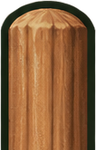
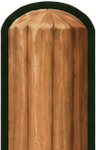
Fiks stolpar og dagsskifte i Duldord

diff --git a/duldord/css/tursti.css b/duldord/css/tursti.css
@@ -112,9 +112,9 @@
   top: 10%;
   bottom: -20px;
   width: var(--dd-post-width);
-  background: url('../assets/stolpe-topp.png') center top / 100% auto no-repeat,
-              url('../assets/stolpe-botn.png') center bottom / 100% auto no-repeat,
-              url('../assets/stolpe-midt.png') center / 100% auto repeat-y;
+  background: url('../assets/stolpe-topp.png?v=2') center top / 100% auto no-repeat,
+              url('../assets/stolpe-botn.png?v=2') center bottom / 100% auto no-repeat,
+              url('../assets/stolpe-midt.png?v=2') center 150px / 100% auto repeat-y;
 }
 .dd-header-post-left { left: calc(var(--dd-sign-height) * .218 - var(--dd-post-width) / 2); }
 .dd-header-post-right { right: calc(var(--dd-sign-height) * .218 - var(--dd-post-width) / 2); }
@@ -140,12 +140,13 @@
   position: absolute;
   z-index: 2;
   top: 78%;
-  left: calc(var(--dd-sign-height) * .218 - 42px);
+  left: calc(var(--dd-sign-height) * .218);
   width: 205px;
   height: 72px;
-  transform: rotate(7deg);
+  transform: translateX(-50%) rotate(7deg);
 }
 .dd-daydate,
+.dd-next-signpost,
 .dd-previous-signpost {
   display: flex;
   position: relative;
@@ -164,6 +165,7 @@
   white-space: nowrap;
 }
 .dd-daydate::before,
+.dd-next-signpost::before,
 .dd-previous-signpost::before {
   content: '';
   position: absolute;
@@ -171,20 +173,33 @@
   z-index: -1;
   background: url('../assets/informasjonspil.png?v=2') center / contain no-repeat;
 }
+.dd-next-signpost,
 .dd-previous-signpost {
   position: absolute;
   z-index: 3;
   top: calc(8px + var(--dd-sign-height) + 2px);
-  right: -8px;
   width: 175px;
-  padding: 0 0 0 17px;
   font-size: .78rem;
   cursor: pointer;
 }
+.dd-next-signpost {
+  left: calc((100% - min(100%, 490px)) / 2 + var(--dd-sign-height) * .218);
+  padding: 0 17px 0 0;
+  transform: translateX(-50%);
+}
+.dd-previous-signpost {
+  right: calc((100% - min(100%, 490px)) / 2 + var(--dd-sign-height) * .218);
+  padding: 0 0 0 17px;
+  transform: translateX(50%);
+}
 .dd-previous-signpost::before { transform: scaleX(-1); }
+.dd-next-signpost[hidden],
 .dd-previous-signpost[hidden] { display: none; }
+.dd-next-signpost:hover,
 .dd-previous-signpost:hover { filter: brightness(1.1); }
-.dd-previous-signpost:active { transform: scale(.97); }
+.dd-next-signpost:active { transform: translateX(-50%) scale(.97); }
+.dd-previous-signpost:active { transform: translateX(50%) scale(.97); }
+.dd-next-signpost:focus-visible,
 .dd-previous-signpost:focus-visible {
   outline: 3px solid var(--dd-gold);
   outline-offset: 3px;
@@ -250,9 +265,9 @@
   bottom: 2px;
   left: -44px;
   width: 13px;
-  background: url('../assets/stolpe-topp.png') center top / 100% auto no-repeat,
-              url('../assets/stolpe-botn.png') center bottom / 100% auto no-repeat,
-              url('../assets/stolpe-midt.png') center / 100% auto repeat-y;
+  background: url('../assets/stolpe-topp.png?v=2') center top / 100% auto no-repeat,
+              url('../assets/stolpe-botn.png?v=2') center bottom / 100% auto no-repeat,
+              url('../assets/stolpe-midt.png?v=2') center 150px / 100% auto repeat-y;
 }
 .dd-row { position: relative; }
 .dd-step-sign {
@@ -469,9 +484,12 @@
   .dd-welcome-board p { font-size: clamp(.58rem, 2.3vw, .75rem); }
   .dd-layout { gap: 10px; }
   .dd-board-stage { padding-top: 5px; margin-top: -25px; }
-  .dd-day-signpost { left: calc(var(--dd-sign-height) * .218 - 31px); top: 74%; width: 158px; height: 58px; }
+  .dd-day-signpost { left: calc(var(--dd-sign-height) * .218); top: 74%; width: 158px; height: 58px; }
   .dd-daydate { padding-right: 12px; font-size: .68rem; }
-  .dd-previous-signpost { top: calc(5px + var(--dd-sign-height) + 2px); right: -2px; width: 142px; padding-left: 12px; font-size: .64rem; }
+  .dd-next-signpost,
+  .dd-previous-signpost { top: calc(5px + var(--dd-sign-height) + 2px); width: 142px; font-size: .64rem; }
+  .dd-next-signpost { padding-right: 12px; }
+  .dd-previous-signpost { padding-left: 12px; }
   .dd-board-frame { padding: 25px 6px 12px 39px; border-width: 4px; }
   .dd-board { --dd-size: min(54px, calc((100vw - 105px - 4 * var(--dd-gap)) / 5)); }
   .dd-board::before { left: -28px; width: 10px; }

diff --git a/duldord/js/game.js b/duldord/js/game.js
@@ -59,6 +59,8 @@
     else if (daysAgo === 2) el.dayDate.textContent = 'Forgårsdagens ord';
     else el.dayDate.textContent = S.formatDate(S.dateForIndex(state.dayIndex));
     el.previousDayBtn.hidden = state.dayIndex <= 0;
+    const latestAvailableIndex = Math.min(state.todayIndex, S.wordCount() - 1);
+    el.nextDayBtn.hidden = state.dayIndex >= latestAvailableIndex;
 
     // Arkivet opnar seg fyrst når dagens ord er ferdigspelt. Er årgangen omme,
     // finst det ikkje noko dagens ord å vente på, og arkivet er alltid ope.
@@ -197,7 +199,7 @@
 
   // ── oppstart ─────────────────────────────────────────────────────────────
   function cacheElements() {
-    ['hero', 'dayNum', 'dayDate', 'previousDayBtn', 'message', 'board', 'keyboard', 'footnote',
+    ['hero', 'dayNum', 'dayDate', 'nextDayBtn', 'previousDayBtn', 'message', 'board', 'keyboard', 'footnote',
       'archiveBtn', 'statsBtn', 'helpBtn', 'shareBtn', 'shareLabel', 'shareWrap',
       'archiveGrid', 'helpOverlay', 'statsOverlay', 'archiveOverlay']
       .forEach(id => { el[id] = document.getElementById(id); });
@@ -266,6 +268,7 @@
     el.helpBtn.addEventListener('click', () => openModal(el.helpOverlay));
     el.statsBtn.addEventListener('click', showStats);
     el.archiveBtn.addEventListener('click', showArchive);
+    el.nextDayBtn.addEventListener('click', () => openDay(state.dayIndex + 1));
     el.previousDayBtn.addEventListener('click', () => openDay(state.dayIndex - 1));
     el.shareBtn.addEventListener('click', () => {
       const text = Stats.shareText(state.dayIndex + 1, state.guesses, state.answer, state.status);

diff --git a/duldord/index.html b/duldord/index.html
@@ -9,7 +9,7 @@
     <link rel="apple-touch-icon" href="/_resources/vyrde-ikon-180.png">
 <link rel="stylesheet" href="../css/neobrutalisme.css">
 <link rel="stylesheet" href="css/style.css?v=3">
-<link rel="stylesheet" href="css/tursti.css?v=11">
+<link rel="stylesheet" href="css/tursti.css?v=12">
 <script src="../js/neo-header.js" defer></script>
 </head>
 <body class="dd-page" data-light-theme="classic" data-dark-theme="space" data-theme="classic">
@@ -63,6 +63,7 @@
             <div class="dd-day-signpost"><span class="dd-daydate" id="dayDate"></span></div>
           </div>
         </section>
+        <button class="dd-next-signpost" id="nextDayBtn" type="button" aria-label="Gå éin dag fram" hidden><span>Seinare ord</span></button>
         <button class="dd-previous-signpost" id="previousDayBtn" type="button" aria-label="Gå éin dag attende" hidden><span>Tidlegare ord</span></button>
         <div class="dd-board-frame">
           <div class="dd-board" id="board" role="group" aria-label="Gjettebrett"></div>
@@ -137,7 +138,7 @@
 <script src="js/keyboard.js?v=1"></script>
 <script src="js/stats.js?v=1"></script>
 <script src="js/archive.js?v=1"></script>
-<script src="js/game.js?v=4"></script>
+<script src="js/game.js?v=5"></script>
 
 </body>
 </html>

diff --git a/CHANGELOG.md b/CHANGELOG.md
@@ -8,7 +8,7 @@ Format: [Keep a Changelog](https://keepachangelog.com/), datoar i ISO 8601.
 ### Endra
 - **Duldord har fått ei ny turstidrakt.** Eit lokalt lagra skogsbilete, heile treplankar med spikrar over stolpane, treskilt som kan vekse i breidda og høgda, biletlaga piler for dag og steg, og mjukt avrunda spelruter og tastar gjer ordspelet til ein liten tur gjennom seks freistnader. Bokstavrutene og tastane er utan slagskugge. Utforminga tilpassar seg både mobil og brei skjerm, og spel, arkiv og statistikk fungerer som før.
 - **Skilta er skjerpa og samla rundt spelebrettet.** Eit kortare og høgare hovudskilt står på to stolpar bak ramma, med dagnummeret på same planke. Dagens ord peikar svakt nedover på ei spikarfri trepil med stolpe bak ramma. Stegpilene held original proporsjon, og infoskiltet har tynnare omriss utan unødig overskrift. Arkiv, statistikk og hjelp ligg på infoskiltet. Dei vanlege boksane har ikkje lenger tjukk slagskugge.
-- **Dagsskifta har fått eigne vegvisarar.** Biletgenererte, repeterbare trestolpar går att både bak toppskiltet og langs talpilene. Dagsskiltet står på venstre stolpe og viser dagens ord, gårsdagens ord, forgårsdagens ord eller dato. «Tidlegare ord» peikar inn mot hovudboksen frå høgre og går éin dag attende for kvart trykk. Det opphavlege Duldord-ikonet er tilbake på toppskiltet.
+- **Dagsskifta har fått eigne vegvisarar.** Biletgenererte, saumlaust repeterbare trestolpar går att både bak toppskiltet og langs talpilene. Dagsskiltet står midt på venstre stolpe og viser dagens ord, gårsdagens ord, forgårsdagens ord eller dato. «Tidlegare ord» og «Seinare ord» står midt på kvar sin stolpe og flyttar éin dag om gongen. Det opphavlege Duldord-ikonet er tilbake på toppskiltet.
 - **Hjelpa opnar seg når spelaren ber om henne.** Den korte forklaringa står no på velkomstskiltet, medan utførleg hjelp framleis finst på hjelpeknappen.
 
 ## [1.54] — 2026-09-18
